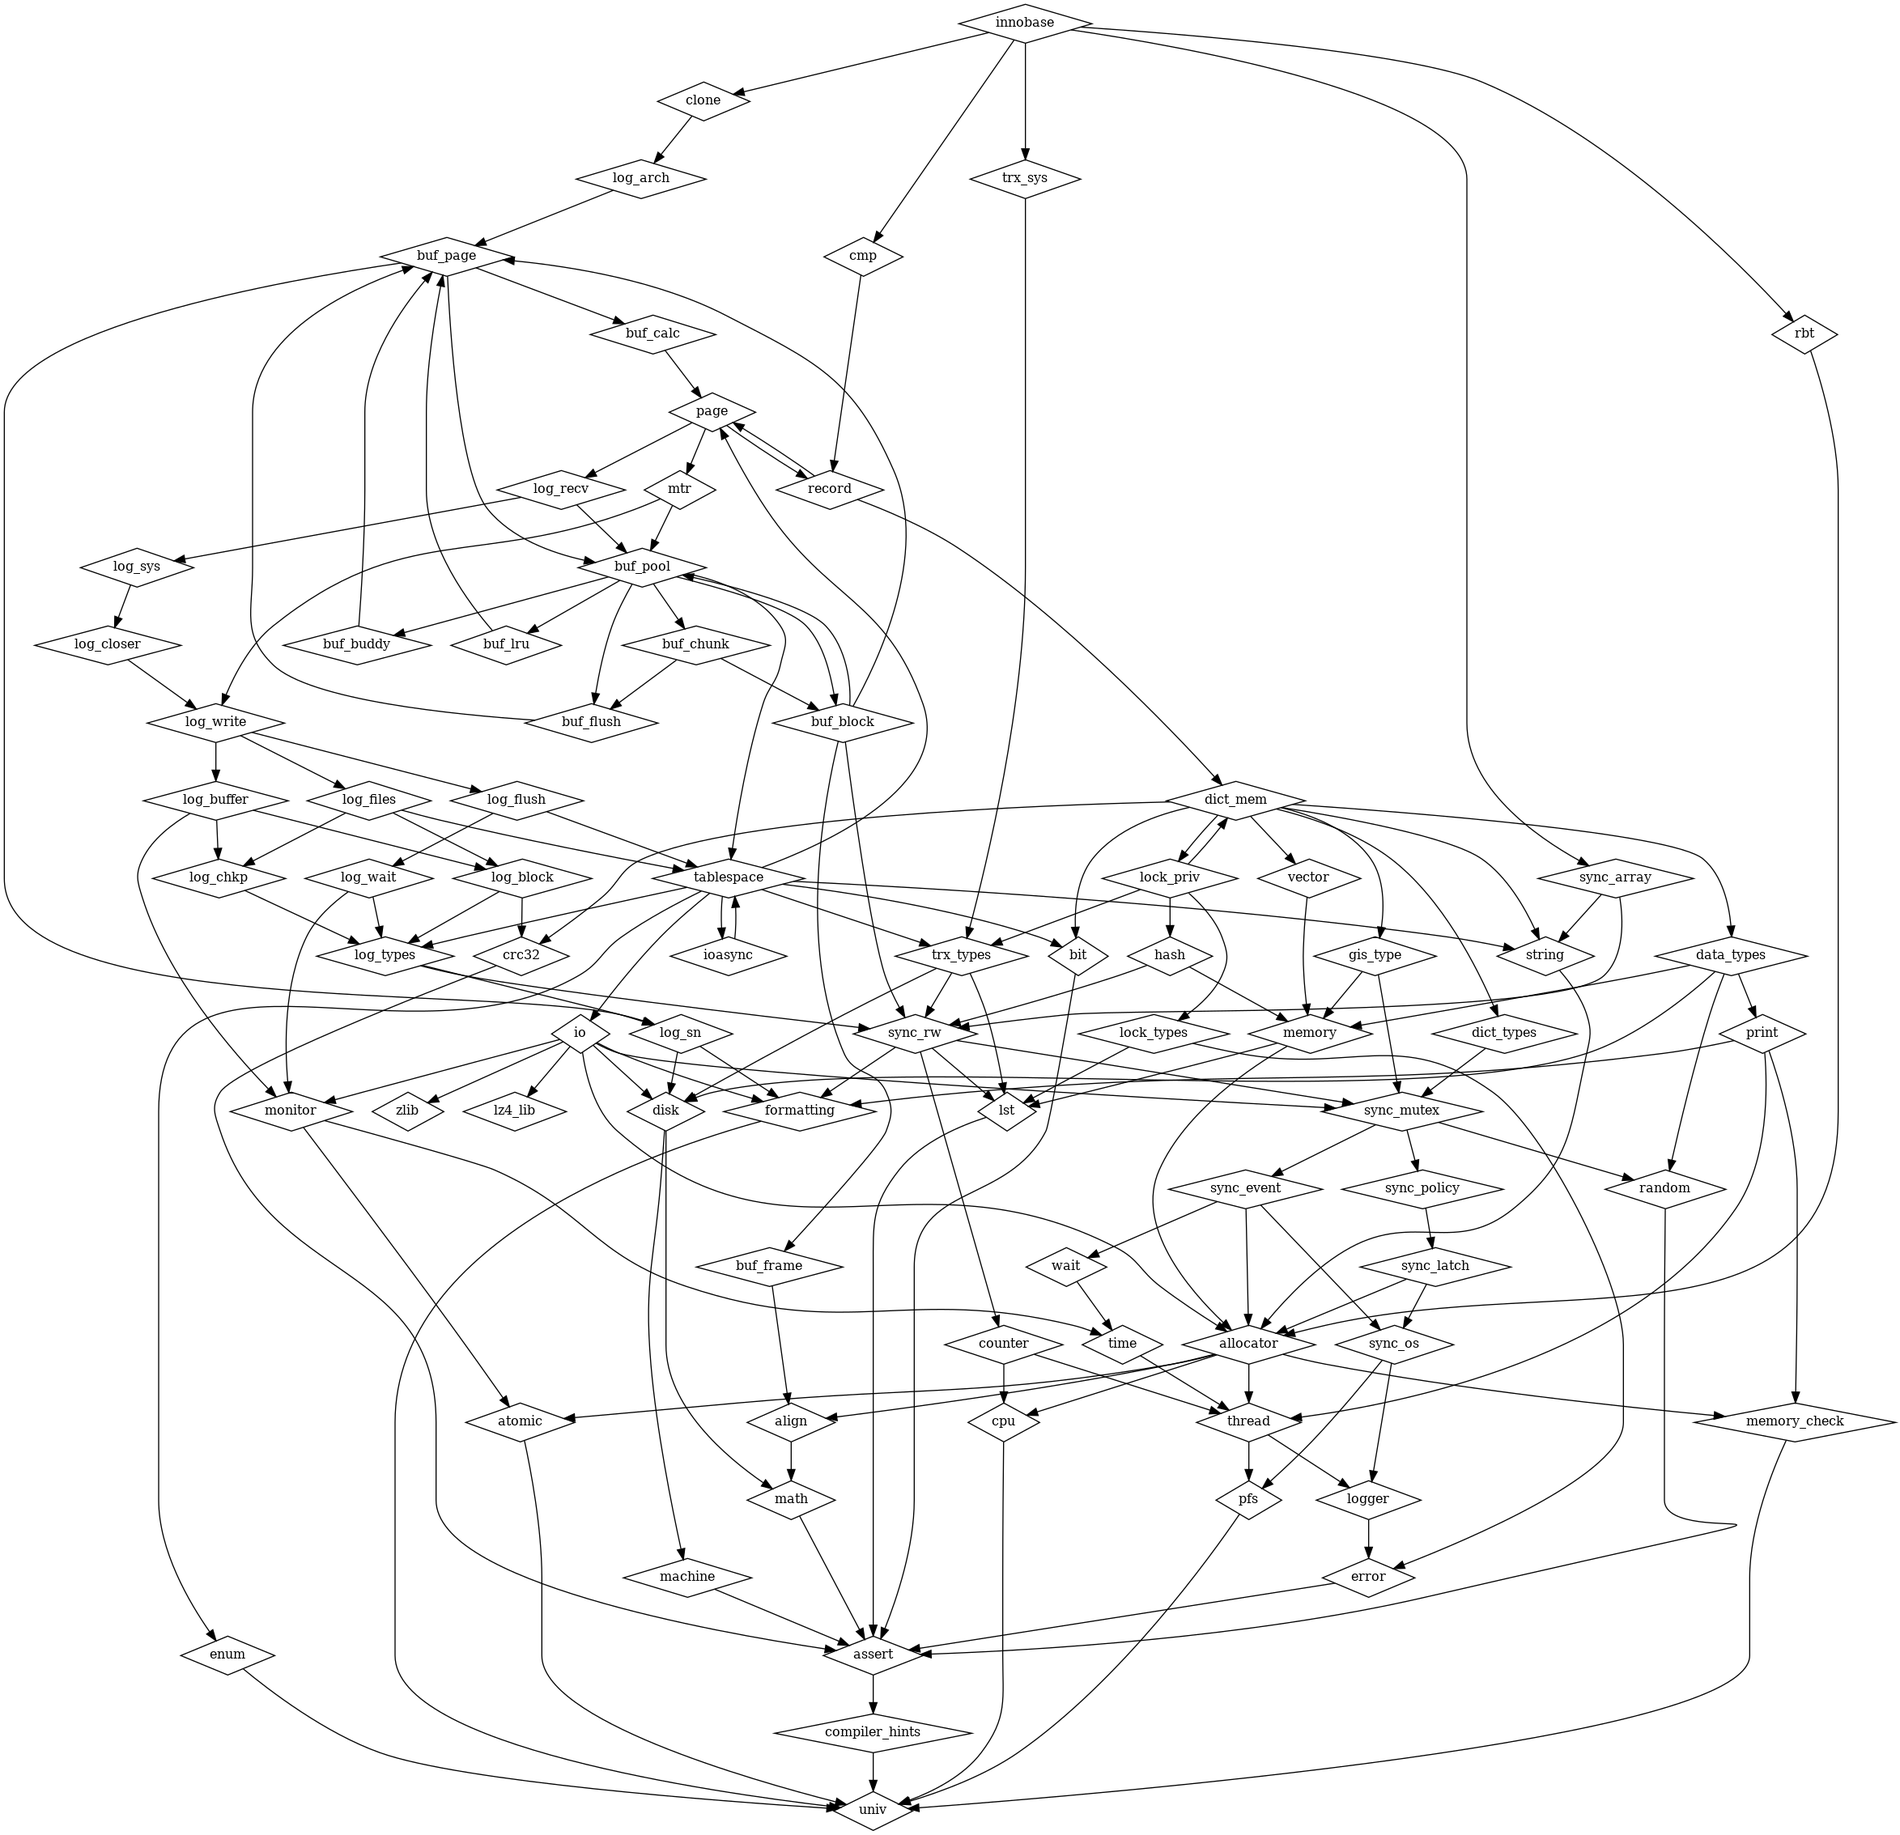
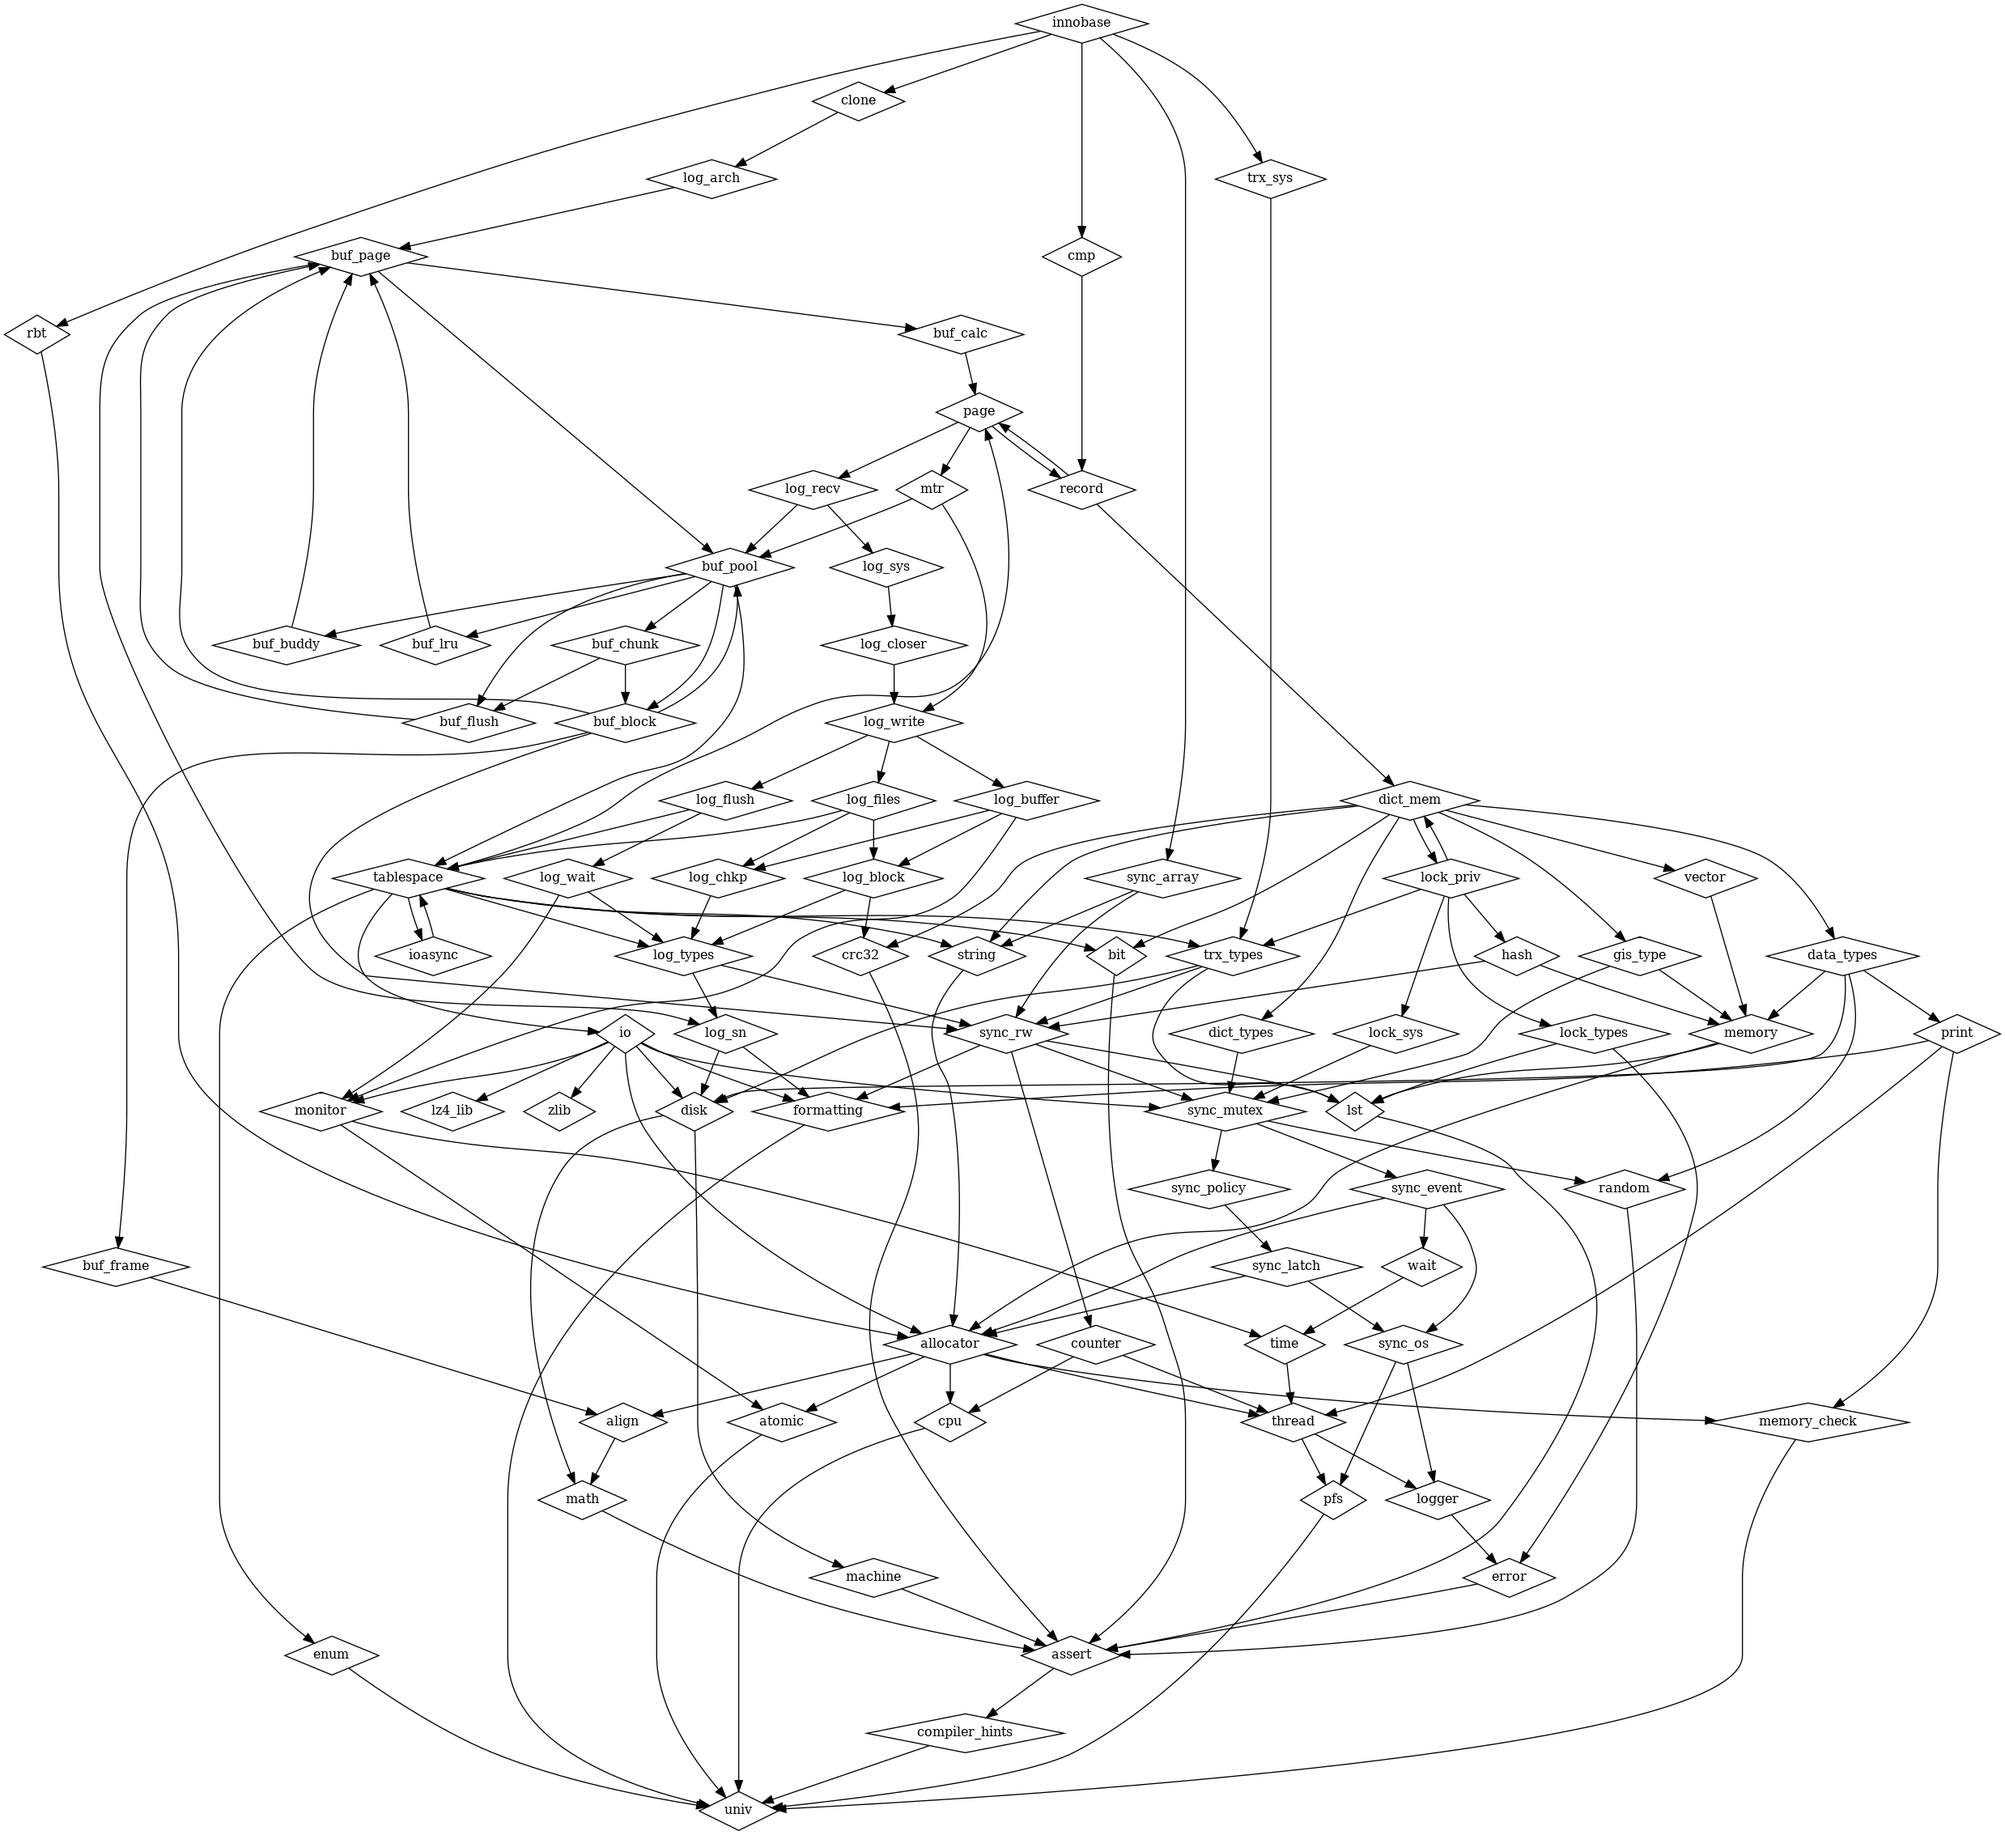
Create lock_sys library

diff --git a/storage/innobase/include/lock0lock.h b/storage/innobase/include/lock0lock.h
@@ -35,10 +35,19 @@ this program; if not, write to the Free Software Foundation, Inc.,
 
 #include <innodb/univ/univ.h>
 
+#include <innodb/lock_sys/LockMutex.h>
+#include <innodb/lock_sys/lock_sys_t.h>
 #include <innodb/lock_types/trx_lock_list_t.h>
 #include <innodb/lock_types/select_mode.h>
 #include <innodb/lock_priv/flags.h>
-
+#include <innodb/lock_sys/lock_sys.h>
+#include <innodb/lock_sys/lock_mutex_enter_nowait.h>
+#include <innodb/lock_sys/lock_mutex_own.h>
+#include <innodb/lock_sys/lock_mutex_enter.h>
+#include <innodb/lock_sys/lock_mutex_exit.h>
+#include <innodb/lock_sys/lock_wait_mutex_own.h>
+#include <innodb/lock_sys/lock_wait_mutex_enter.h>
+#include <innodb/lock_sys/lock_wait_mutex_exit.h>
 
 struct lock_t;
 struct lock_sys_t;
@@ -633,58 +642,7 @@ struct lock_op_t {
   lock_mode mode;      /*!< lock mode */
 };
 
-typedef ib_mutex_t LockMutex;
 
-/** The lock system struct */
-struct lock_sys_t {
-  char pad1[INNOBASE_CACHE_LINE_SIZE];
-  /*!< padding to prevent other
-  memory update hotspots from
-  residing on the same memory
-  cache line */
-  LockMutex mutex;              /*!< Mutex protecting the
-                                locks */
-  hash_table_t *rec_hash;       /*!< hash table of the record
-                                locks */
-  hash_table_t *prdt_hash;      /*!< hash table of the predicate
-                                lock */
-  hash_table_t *prdt_page_hash; /*!< hash table of the page
-                                lock */
-
-  char pad2[INNOBASE_CACHE_LINE_SIZE]; /*!< Padding */
-  LockMutex wait_mutex;                /*!< Mutex protecting the
-                                       next two fields */
-  srv_slot_t *waiting_threads;         /*!< Array  of user threads
-                                       suspended while waiting for
-                                       locks within InnoDB, protected
-                                       by the lock_sys->wait_mutex */
-  srv_slot_t *last_slot;               /*!< highest slot ever used
-                                       in the waiting_threads array,
-                                       protected by
-                                       lock_sys->wait_mutex */
-  int n_waiting;                       /*!< Number of slots in use.
-                                       Protected by lock_sys->mutex */
-  ibool rollback_complete;
-  /*!< TRUE if rollback of all
-  recovered transactions is
-  complete. Protected by
-  lock_sys->mutex */
-
-  ulint n_lock_max_wait_time; /*!< Max wait time */
-
-  os_event_t timeout_event; /*!< Set to the event that is
-                            created in the lock wait monitor
-                            thread. A value of 0 means the
-                            thread is not active */
-
-  /** Marker value before trx_t::age. */
-  uint64_t mark_age_updated;
-
-#ifdef UNIV_DEBUG
-  /** Lock timestamp counter */
-  uint64_t m_seq;
-#endif /* UNIV_DEBUG */
-};
 
 /*********************************************************************/ /**
 This function is kind of wrapper to lock_rec_convert_impl_to_expl_for_trx()
@@ -727,41 +685,21 @@ void lock_rec_free_all_from_discard_page(
 @param[in] type	whether the lock is in wait mode  */
 void lock_rec_trx_wait(lock_t *lock, ulint i, ulint type);
 
-/** The lock system */
-extern lock_sys_t *lock_sys;
 
-/** Test if lock_sys->mutex can be acquired without waiting. */
-#define lock_mutex_enter_nowait() (lock_sys->mutex.trylock(__FILE__, __LINE__))
 
-/** Test if lock_sys->mutex is owned. */
-#define lock_mutex_own() (lock_sys->mutex.is_owned())
 
-/** Acquire the lock_sys->mutex. */
-#define lock_mutex_enter()         \
-  do {                             \
-    mutex_enter(&lock_sys->mutex); \
-  } while (0)
 
-/** Release the lock_sys->mutex. */
-#define lock_mutex_exit()   \
-  do {                      \
-    lock_sys->mutex.exit(); \
-  } while (0)
 
-/** Test if lock_sys->wait_mutex is owned. */
-#define lock_wait_mutex_own() (lock_sys->wait_mutex.is_owned())
 
-/** Acquire the lock_sys->wait_mutex. */
-#define lock_wait_mutex_enter()         \
-  do {                                  \
-    mutex_enter(&lock_sys->wait_mutex); \
-  } while (0)
 
-/** Release the lock_sys->wait_mutex. */
-#define lock_wait_mutex_exit()   \
-  do {                           \
-    lock_sys->wait_mutex.exit(); \
-  } while (0)
+
+
+
+
+
+
+
+
 
 #include "lock0lock.ic"
 

diff --git a/storage/innobase/libs/lock_sys/include/innodb/lock_sys/lock_sys_t.h b/storage/innobase/libs/lock_sys/include/innodb/lock_sys/lock_sys_t.h
@@ -1,0 +1,61 @@
+#pragma once
+
+#include <innodb/univ/univ.h>
+
+#include <innodb/lock_sys/LockMutex.h>
+#include <innodb/sync_event/os_event_t.h>
+#include <innodb/cpu/flags.h>
+
+struct hash_table_t;
+struct srv_slot_t;
+
+/** The lock system struct */
+struct lock_sys_t {
+  char pad1[INNOBASE_CACHE_LINE_SIZE];
+  /*!< padding to prevent other
+  memory update hotspots from
+  residing on the same memory
+  cache line */
+  LockMutex mutex;              /*!< Mutex protecting the
+                                locks */
+  hash_table_t *rec_hash;       /*!< hash table of the record
+                                locks */
+  hash_table_t *prdt_hash;      /*!< hash table of the predicate
+                                lock */
+  hash_table_t *prdt_page_hash; /*!< hash table of the page
+                                lock */
+
+  char pad2[INNOBASE_CACHE_LINE_SIZE]; /*!< Padding */
+  LockMutex wait_mutex;                /*!< Mutex protecting the
+                                       next two fields */
+  srv_slot_t *waiting_threads;         /*!< Array  of user threads
+                                       suspended while waiting for
+                                       locks within InnoDB, protected
+                                       by the lock_sys->wait_mutex */
+  srv_slot_t *last_slot;               /*!< highest slot ever used
+                                       in the waiting_threads array,
+                                       protected by
+                                       lock_sys->wait_mutex */
+  int n_waiting;                       /*!< Number of slots in use.
+                                       Protected by lock_sys->mutex */
+  ibool rollback_complete;
+  /*!< TRUE if rollback of all
+  recovered transactions is
+  complete. Protected by
+  lock_sys->mutex */
+
+  ulint n_lock_max_wait_time; /*!< Max wait time */
+
+  os_event_t timeout_event; /*!< Set to the event that is
+                            created in the lock wait monitor
+                            thread. A value of 0 means the
+                            thread is not active */
+
+  /** Marker value before trx_t::age. */
+  uint64_t mark_age_updated;
+
+#ifdef UNIV_DEBUG
+  /** Lock timestamp counter */
+  uint64_t m_seq;
+#endif /* UNIV_DEBUG */
+};

diff --git a/storage/innobase/libs/lock_sys/include/innodb/lock_sys/lock_wait_mutex_enter.h b/storage/innobase/libs/lock_sys/include/innodb/lock_sys/lock_wait_mutex_enter.h
@@ -1,0 +1,12 @@
+#pragma once
+
+#include <innodb/univ/univ.h>
+
+#include <innodb/lock_sys/lock_sys.h>
+#include <innodb/sync_mutex/mutex_enter.h>
+
+/** Acquire the lock_sys->wait_mutex. */
+#define lock_wait_mutex_enter()         \
+  do {                                  \
+    mutex_enter(&lock_sys->wait_mutex); \
+  } while (0)

diff --git a/storage/innobase/libs/lock_sys/include/innodb/lock_sys/lock_mutex_enter.h b/storage/innobase/libs/lock_sys/include/innodb/lock_sys/lock_mutex_enter.h
@@ -1,0 +1,12 @@
+#pragma once
+
+#include <innodb/univ/univ.h>
+
+#include <innodb/lock_sys/lock_sys.h>
+#include <innodb/sync_mutex/mutex_enter.h>
+
+/** Acquire the lock_sys->mutex. */
+#define lock_mutex_enter()         \
+  do {                             \
+    mutex_enter(&lock_sys->mutex); \
+  } while (0)

diff --git a/storage/innobase/lock/lock0lock.cc b/storage/innobase/lock/lock0lock.cc
@@ -337,8 +337,7 @@ static bool lock_rec_validate_page(
     MY_ATTRIBUTE((warn_unused_result));
 #endif /* UNIV_DEBUG */
 
-/* The lock system */
-lock_sys_t *lock_sys = NULL;
+
 
 /** We store info on the latest deadlock error to this buffer. InnoDB
 Monitor will then fetch it and print */

diff --git a/storage/innobase/libs/lock_sys/include/innodb/lock_sys/lock_wait_mutex_exit.h b/storage/innobase/libs/lock_sys/include/innodb/lock_sys/lock_wait_mutex_exit.h
@@ -1,0 +1,11 @@
+#pragma once
+
+#include <innodb/univ/univ.h>
+
+#include <innodb/lock_sys/lock_sys.h>
+
+/** Release the lock_sys->wait_mutex. */
+#define lock_wait_mutex_exit()   \
+  do {                           \
+    lock_sys->wait_mutex.exit(); \
+  } while (0)

diff --git a/storage/innobase/libs/lock_sys/include/innodb/lock_sys/lock_mutex_enter_nowait.h b/storage/innobase/libs/lock_sys/include/innodb/lock_sys/lock_mutex_enter_nowait.h
@@ -1,0 +1,8 @@
+#pragma once
+
+#include <innodb/univ/univ.h>
+
+#include <innodb/lock_sys/lock_sys.h>
+
+/** Test if lock_sys->mutex can be acquired without waiting. */
+#define lock_mutex_enter_nowait() (lock_sys->mutex.trylock(__FILE__, __LINE__))

diff --git a/storage/innobase/libs/lock_sys/include/innodb/lock_sys/lock_mutex_exit.h b/storage/innobase/libs/lock_sys/include/innodb/lock_sys/lock_mutex_exit.h
@@ -1,0 +1,11 @@
+#pragma once
+
+#include <innodb/univ/univ.h>
+
+#include <innodb/lock_sys/lock_sys.h>
+
+/** Release the lock_sys->mutex. */
+#define lock_mutex_exit()   \
+  do {                      \
+    lock_sys->mutex.exit(); \
+  } while (0)

diff --git a/storage/innobase/libs/lock_sys/include/innodb/lock_sys/lock_wait_mutex_own.h b/storage/innobase/libs/lock_sys/include/innodb/lock_sys/lock_wait_mutex_own.h
@@ -1,0 +1,8 @@
+#pragma once
+
+#include <innodb/univ/univ.h>
+
+#include <innodb/lock_sys/lock_sys.h>
+
+/** Test if lock_sys->wait_mutex is owned. */
+#define lock_wait_mutex_own() (lock_sys->wait_mutex.is_owned())

diff --git a/storage/innobase/libs/lock_sys/include/innodb/lock_sys/lock_mutex_own.h b/storage/innobase/libs/lock_sys/include/innodb/lock_sys/lock_mutex_own.h
@@ -1,0 +1,8 @@
+#pragma once
+
+#include <innodb/univ/univ.h>
+
+#include <innodb/lock_sys/lock_sys.h>
+
+/** Test if lock_sys->mutex is owned. */
+#define lock_mutex_own() (lock_sys->mutex.is_owned())

diff --git a/storage/innobase/libs/lock_sys/tests/main.cpp b/storage/innobase/libs/lock_sys/tests/main.cpp
@@ -1,0 +1,9 @@
+#include <gtest/gtest.h>
+
+int main( int argc, char **argv ) 
+{
+    ::testing::InitGoogleTest(&argc, argv);
+    return RUN_ALL_TESTS();
+}
+
+

diff --git a/storage/innobase/libs/lock_sys/include/innodb/lock_sys/lock_sys.h b/storage/innobase/libs/lock_sys/include/innodb/lock_sys/lock_sys.h
@@ -1,0 +1,8 @@
+#pragma once
+
+#include <innodb/univ/univ.h>
+
+#include <innodb/lock_sys/lock_sys_t.h>
+
+/** The lock system */
+extern lock_sys_t *lock_sys;
